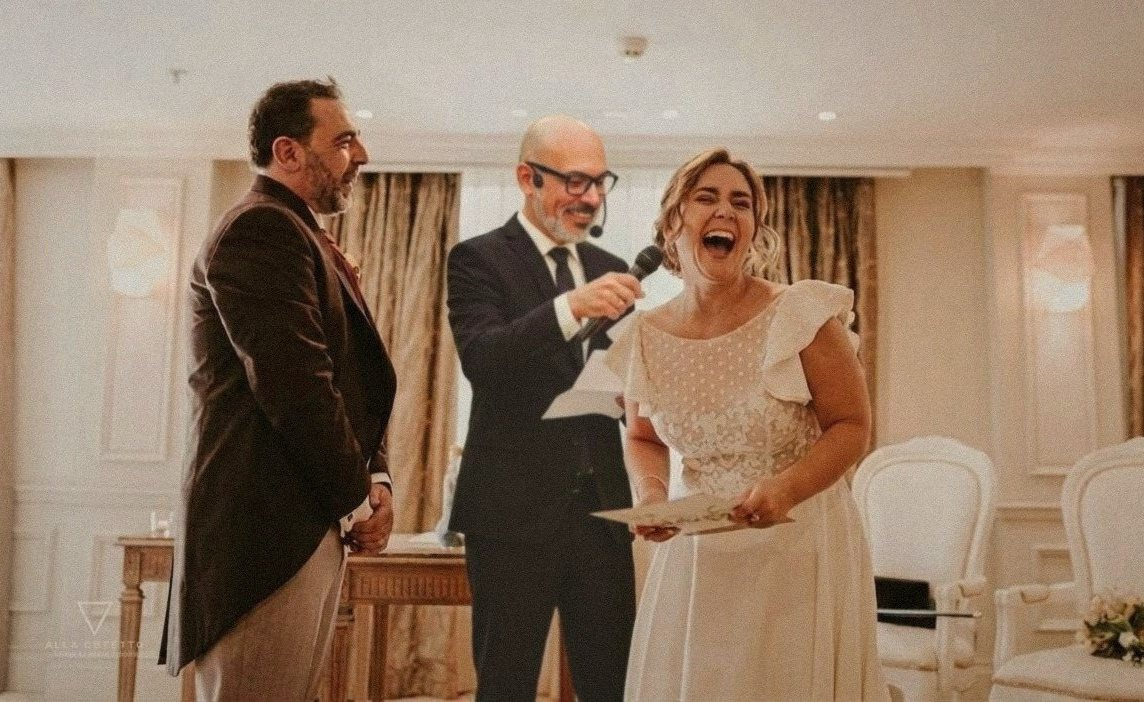
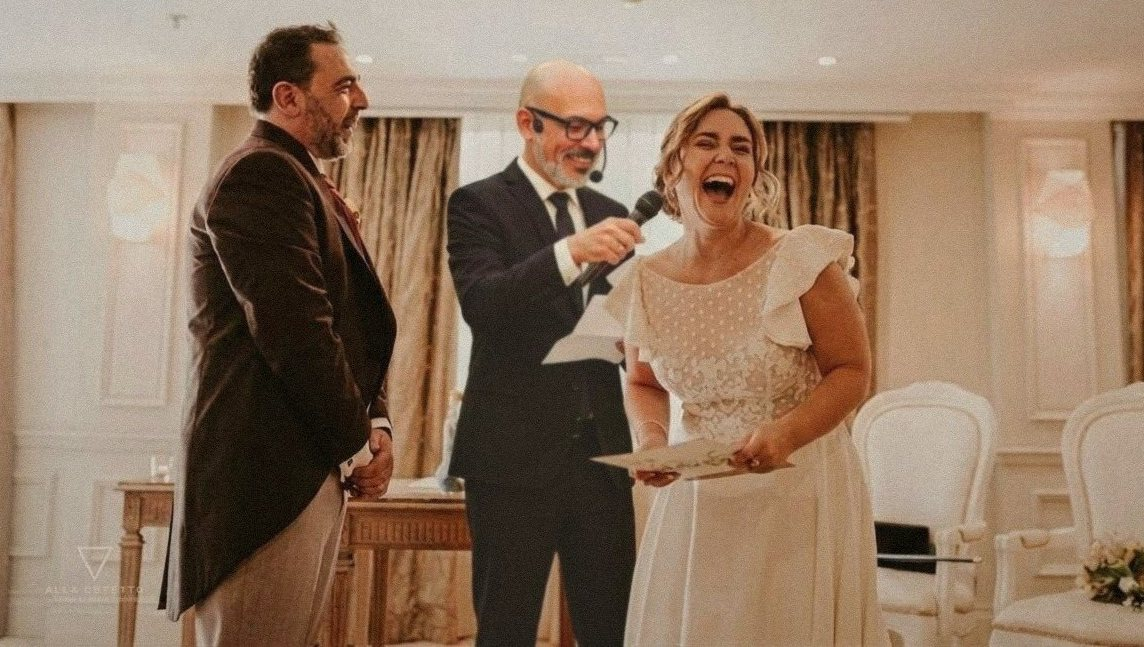
Bodas: fuera el apartado Hecho con vuestra historia; menos techo en la foto del móvil
Claude-Session: https://claude.ai/code/session_01Kpin3hdFHnDy4k9TLXdm2B

diff --git a/celebraciones/bodas.html b/celebraciones/bodas.html
@@ -411,11 +411,7 @@ footer ul{display:flex;flex-wrap:wrap;gap:8px 20px;list-style:none}footer a{text
 
 <style>.elg{display:grid;grid-template-columns:repeat(3,1fr);gap:24px}.elg-i{background:#fff;border:1px solid #EADFD0;border-radius:18px;padding:26px 24px}.elg-i h3{font-family:'Fraunces',serif;font-size:21px;margin:14px 0 8px;color:#1A1005}.elg-i p{margin:0;font-size:15.5px;line-height:1.55;color:#5c4d3e}@media(max-width:768px){.elg{grid-template-columns:1fr;gap:12px}}</style>
 <div style="background:#A87F34;padding:46px 20px;text-align:center"><p style="font-family:'Fraunces',serif;font-style:italic;font-size:clamp(20px,3vw,28px);color:#fff;margin:0">Hay bodas preciosas. Y hay bodas de las que se habla.<br>La vuestra puede ser las dos.</p></div>
-<section class="w sec" style="padding-top:0">
-  <div style="text-align:center;margin:80px 0 36px"><p class="mono" style="font-size:12px;letter-spacing:.2em;color:var(--muted);margin:0">PERSONALIZADO</p><h2 style="margin:12px 0 10px">Hecho con <em>vuestra historia</em></h2><p style="color:var(--muted);margin:0">Tres momentos que hemos hecho dentro de la ceremonia de otras parejas.</p></div>
-  <div class="hv-grid" style="display:grid;grid-template-columns:repeat(3,1fr);gap:20px"><div style="background:#fff;border-radius:24px;padding:30px 28px;box-shadow:0 8px 24px rgba(43,33,24,.07)"><p style="font-size:12px;letter-spacing:.16em;text-transform:uppercase;color:var(--muted);margin:0 0 10px"></p><h3 style="font-size:21px;line-height:1.2;margin:0 0 10px">Cómo os conocisteis</h3><p style="color:var(--muted);font-size:15px;line-height:1.6;margin:0">La fecha, el bar o la canción de aquella noche acaban escritos dentro de un sobre que un invitado ha tenido en el bolsillo desde que entró, sin saberlo.</p></div><div style="background:#fff;border-radius:24px;padding:30px 28px;box-shadow:0 8px 24px rgba(43,33,24,.07)"><p style="font-size:12px;letter-spacing:.16em;text-transform:uppercase;color:var(--muted);margin:0 0 10px"></p><h3 style="font-size:21px;line-height:1.2;margin:0 0 10px">Los anillos</h3><p style="color:var(--muted);font-size:15px;line-height:1.6;margin:0">El gesto que todos esperan, resuelto de una forma que no se puede explicar. Es el momento de la ceremonia que más se graba con el móvil.</p></div><div style="background:#fff;border-radius:24px;padding:30px 28px;box-shadow:0 8px 24px rgba(43,33,24,.07)"><p style="font-size:12px;letter-spacing:.16em;text-transform:uppercase;color:var(--muted);margin:0 0 10px"></p><h3 style="font-size:21px;line-height:1.2;margin:0 0 10px">Los que no están</h3><p style="color:var(--muted);font-size:15px;line-height:1.6;margin:0">Un momento breve y cuidado para nombrar a quien falta, sin dramatismo. Es el que más se agradece y el que hay que hacer con más tacto.</p></div></div>
 
-</section>
 
 
 
